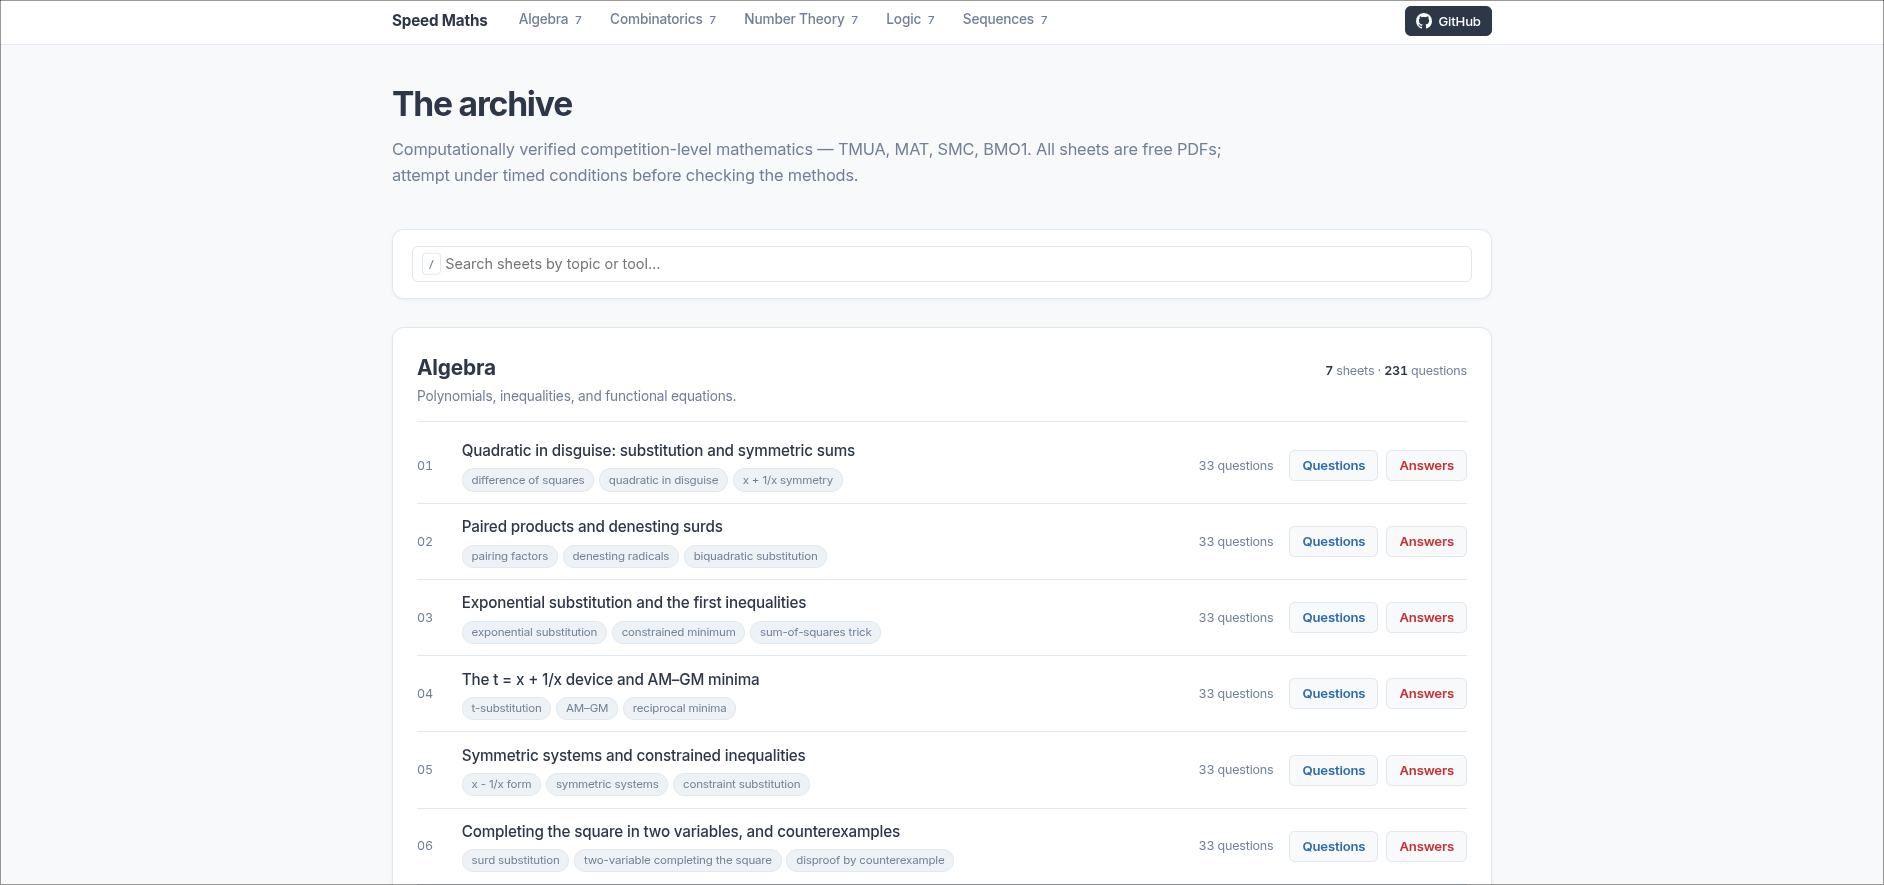
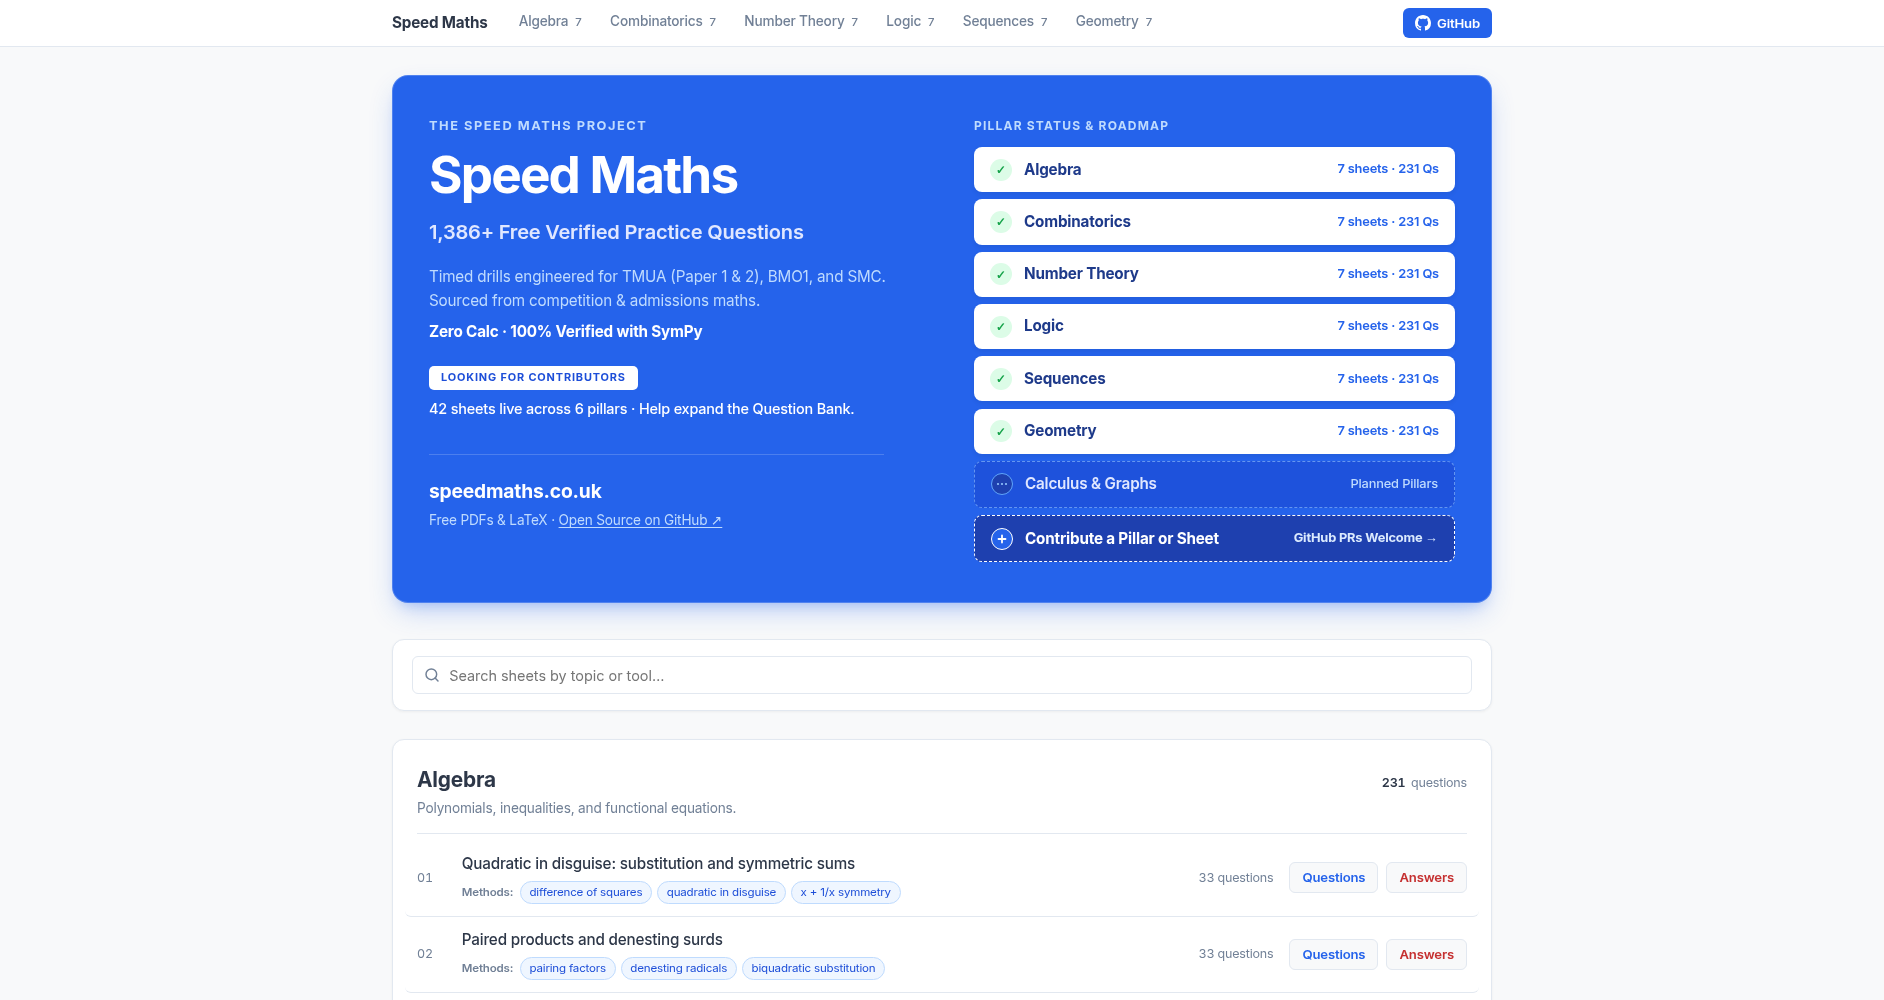
docs(readme): refresh badges and homepage preview
Verified Questions 1,386/1,386 (check_binding.py: 0 violations) and
Tests 4,084 passing (full pytest run). Preview image is a fresh capture
of speedmaths.co.uk showing all 6 pillars.

diff --git a/README.md b/README.md
@@ -5,10 +5,10 @@
     <img src="https://img.shields.io/badge/Website-speedmaths.co.uk-blue.svg" alt="Website">
   </a>
   <a href="verify/BINDING_BASELINE.json">
-    <img src="https://img.shields.io/badge/Verified%20Questions-1%2C155%20%2F%201%2C155%20(100%25)-brightgreen.svg" alt="Verified">
+    <img src="https://img.shields.io/badge/Verified%20Questions-1%2C386%20%2F%201%2C386%20(100%25)-brightgreen.svg" alt="Verified">
   </a>
   <a href="tests/">
-    <img src="https://img.shields.io/badge/Tests-3%2C355%20passing-blue.svg" alt="Tests">
+    <img src="https://img.shields.io/badge/Tests-4%2C084%20passing-blue.svg" alt="Tests">
   </a>
   <a href="sheets/">
     <img src="https://img.shields.io/badge/Format-LaTeX%20%7C%20PDF-lightgrey.svg" alt="LaTeX">
